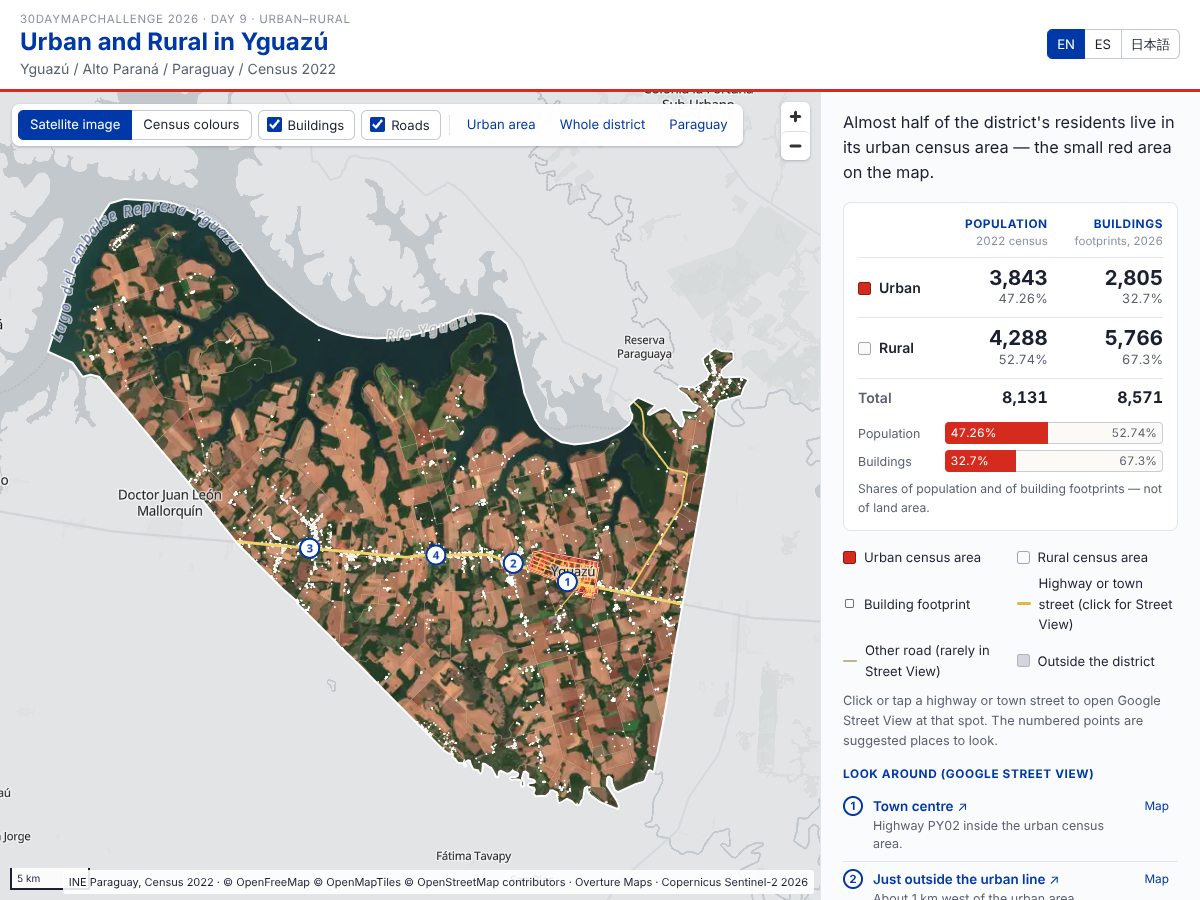
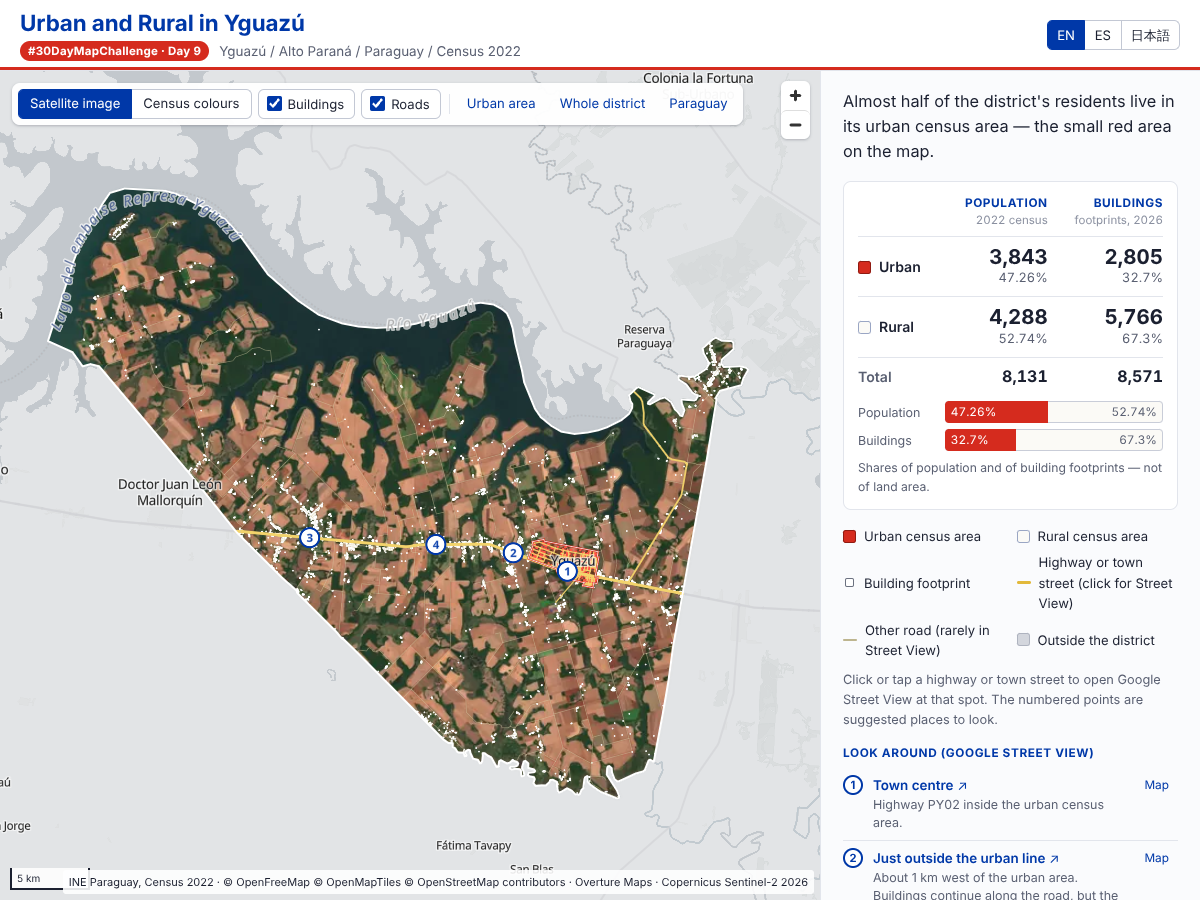
ヘッダーを見直す
タイトルの下にポータルへのラベル「#30DayMapChallenge · Day 9」と場所を1行で並べ、
高さを詰める。スマートフォンではタイトルと言語切替を1行目、ラベルと場所を
全幅の2行目に置く。画面キャプチャを更新。

diff --git a/src/style.css b/src/style.css
@@ -40,19 +40,31 @@ body { background: var(--paper); }
   justify-content: space-between;
   align-items: center;
   gap: 16px;
-  padding: 12px 20px 12px;
-  border-bottom: 3px solid var(--urban);
+  padding: 10px 20px 9px;
   background: var(--paper);
+  border-bottom: 1px solid var(--line);
+  box-shadow: inset 0 -3px 0 var(--urban);
 }
-.eyebrow {
-  margin: 0 0 2px;
+.head-text { min-width: 0; }
+h1 { margin: 0; font-size: 1.4rem; line-height: 1.2; color: var(--blue); letter-spacing: -0.005em; }
+.meta { margin: 4px 0 0; display: flex; flex-wrap: wrap; align-items: center; gap: 4px 10px; font-size: 0.84rem; }
+.tag {
+  display: inline-flex;
+  align-items: center;
+  height: 20px;
+  padding: 0 8px;
+  border-radius: 999px;
+  background: var(--urban);
+  color: #fff;
   font-size: 0.72rem;
-  letter-spacing: 0.06em;
-  text-transform: uppercase;
-  color: var(--faint);
+  font-weight: 700;
+  letter-spacing: 0.02em;
+  text-decoration: none;
+  white-space: nowrap;
 }
-h1 { margin: 0; font-size: 1.5rem; line-height: 1.2; color: var(--blue); }
-.place { margin: 3px 0 0; color: var(--muted); font-size: 0.88rem; }
+.tag:hover { background: var(--urban-dark); }
+.tag:focus-visible { outline: 2px solid var(--blue); outline-offset: 2px; }
+.place { color: var(--muted); }
 
 /* ---- ボタン共通 ---- */
 button {
@@ -307,10 +319,14 @@ body[data-view="satellite"] .sw-building { background: #fff; box-shadow: 0 0 0 1
 /* ---- 小画面：地図の下に数字と凡例 ---- */
 @media (max-width: 760px) {
   .app { height: auto; display: block; }
-  .head { padding: 10px 14px; align-items: flex-start; }
-  .eyebrow { font-size: 0.66rem; }
-  h1 { font-size: 1.22rem; }
-  .place { font-size: 0.8rem; }
+  /* 1行目：タイトルと言語切替、2行目：ラベルと場所（全幅） */
+  .head { display: grid; grid-template-columns: minmax(0, 1fr) auto; align-items: center; padding: 9px 14px 9px; gap: 0 10px; }
+  .head-text { display: contents; }
+  .head h1 { grid-column: 1; grid-row: 1; font-size: 1.12rem; }
+  .head .lang { grid-column: 2; grid-row: 1; }
+  .head .meta { grid-column: 1 / -1; grid-row: 2; }
+  .meta { font-size: 0.76rem; gap: 4px 8px; margin-top: 5px; }
+  .tag { height: 18px; font-size: 0.66rem; padding: 0 7px; }
   .lang button { height: 28px; min-width: 2.4em; padding: 0 7px; font-size: 0.78rem; }
   .map-wrap { height: 64vh; height: 64svh; min-height: 340px; }
   .map-tools { left: 8px; top: 8px; max-width: calc(100% - 56px); padding: 5px; gap: 5px; }

diff --git a/index.html b/index.html
@@ -10,9 +10,11 @@
     <div class="app">
       <header class="head">
         <div class="head-text">
-          <p class="eyebrow">30DayMapChallenge 2026 · Day 9 · Urban–rural</p>
           <h1 data-t="title"></h1>
-          <p class="place" data-t="place"></p>
+          <p class="meta">
+            <a class="tag" href="https://shinyanakashima.github.io/30daymapchallenge/" target="_blank" rel="noopener">#30DayMapChallenge · Day 9</a>
+            <span class="place" data-t="place"></span>
+          </p>
         </div>
         <div id="lang" class="seg lang" role="group" aria-label="Language / Idioma / 言語"></div>
       </header>
